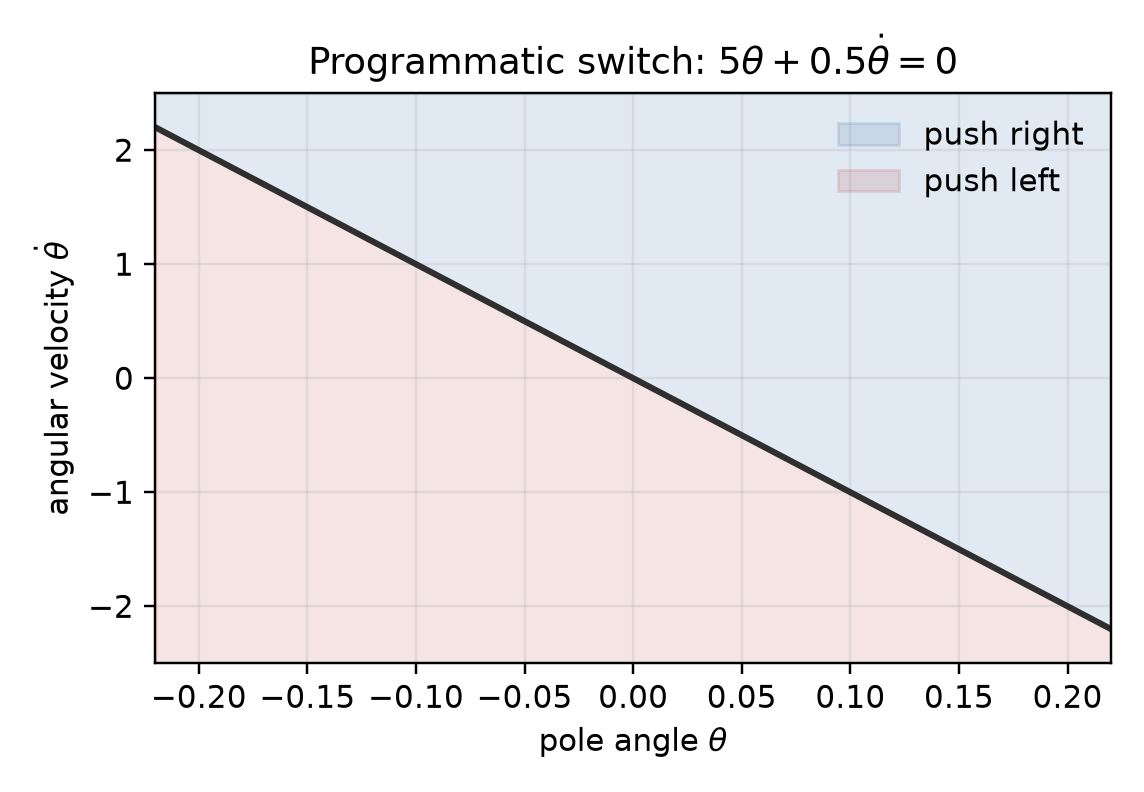
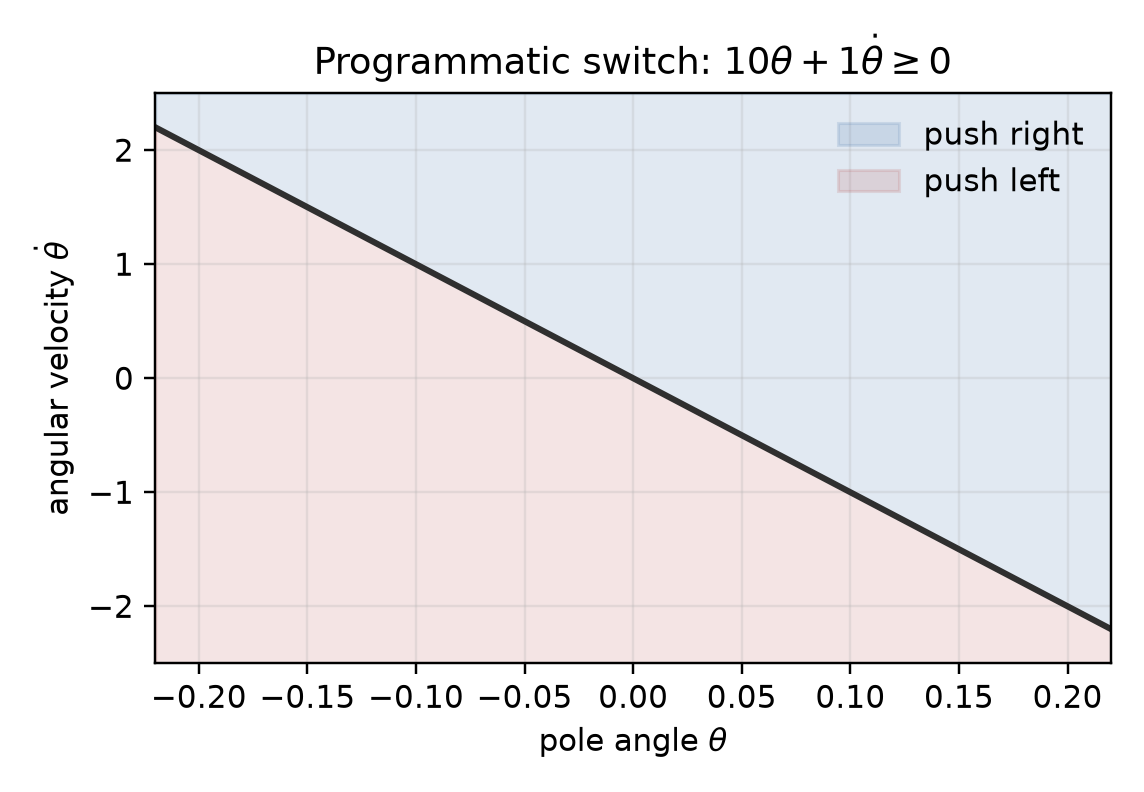
Generate abstract results from artifacts

Changed region(s): [[0.2448, 0.0606, 0.8566, 0.1212]]

diff --git a/scripts/make_paper_figures.py b/scripts/make_paper_figures.py
@@ -16,6 +16,7 @@ SUMMARY_CSV = os.path.join(ROOT, "artifacts", "results", "cartpole_summary.csv")
 OUT_DIR = os.path.join(ROOT, "essay", "figures")
 TABLE_TEX = os.path.join(ROOT, "essay", "cartpole_results_table.tex")
 POLICY_TEX = os.path.join(ROOT, "essay", "cartpole_policy_fragment.tex")
+ABSTRACT_RESULTS_TEX = os.path.join(ROOT, "essay", "cartpole_abstract_results.tex")
 PPO_METRICS_GLOBS = [
     os.path.join(ROOT, "artifacts", "cartpole_ppo_*_metrics.json"),
     os.path.join(ROOT, "artifacts", "results", "metrics", "*.json"),
@@ -46,6 +47,17 @@ def display_policy(name: str) -> str:
     return name.replace("Programmatic state machine", "Programmatic PSM").replace("PPO-LSTM", "PPO-LSTM")
 
 
+def find_policy_row(rows: list[dict[str, str]], policy_name: str) -> dict[str, str] | None:
+    for row in rows:
+        if row["policy"] == policy_name:
+            return row
+    return None
+
+
+def percent(value: float) -> str:
+    return f"{100.0 * value:.0f}\\%"
+
+
 def write_results_table(rows: list[dict[str, str]], outpath: str = TABLE_TEX) -> None:
     lines = [
         "% Generated by scripts/make_paper_figures.py from CartPole result artifacts.",
@@ -65,6 +77,41 @@ def write_results_table(rows: list[dict[str, str]], outpath: str = TABLE_TEX) ->
     lines.extend(["\\bottomrule", "\\end{tabular}", ""])
     with open(outpath, "w", encoding="utf-8") as handle:
         handle.write("\n".join(lines))
+
+
+def write_abstract_results(rows: list[dict[str, str]], outpath: str = ABSTRACT_RESULTS_TEX) -> bool:
+    ppo = find_policy_row(rows, "PPO MLP")
+    psm = find_policy_row(rows, "Programmatic state machine")
+    if ppo is None or psm is None:
+        lines = [
+            "% Generated by scripts/make_paper_figures.py; required result rows were unavailable.",
+            "Local diagnostic result rows were unavailable for this build.",
+            "",
+        ]
+        with open(outpath, "w", encoding="utf-8") as handle:
+            handle.write("\n".join(lines))
+        return False
+
+    ppo_train = metric(ppo, "train_success")
+    ppo_test = metric(ppo, "test_success")
+    ppo_test_reward = metric(ppo, "test_reward")
+    psm_train = metric(psm, "train_success")
+    psm_test = metric(psm, "test_success")
+    psm_test_reward = metric(psm, "test_reward")
+    lines = [
+        "% Generated by scripts/make_paper_figures.py from CartPole result artifacts.",
+        (
+            f"In local diagnostics, feed-forward PPO reaches {percent(ppo_train)} training success "
+            f"and obtains {percent(ppo_test)} success on the full 300-second test horizon with "
+            f"mean test reward {ppo_test_reward:.1f}. The programmatic state machine reaches "
+            f"{percent(psm_train)} training success, obtains {percent(psm_test)} full-horizon "
+            f"test success, and has mean test reward {psm_test_reward:.1f}."
+        ),
+        "",
+    ]
+    with open(outpath, "w", encoding="utf-8") as handle:
+        handle.write("\n".join(lines))
+    return True
 
 
 def plot_success_bars(rows: list[dict[str, str]]) -> None:
@@ -259,6 +306,7 @@ def main() -> None:
     rows = read_results()
     psm_metric_files = read_psm_metric_files()
     write_results_table(rows)
+    write_abstract_results(rows)
     write_policy_fragment(psm_metric_files)
     plot_success_bars(rows)
     plot_survival_rewards(rows)

diff --git a/tests/test_make_paper_figures.py b/tests/test_make_paper_figures.py
@@ -107,6 +107,50 @@ class MakePaperFiguresTest(unittest.TestCase):
         self.assertIn("Programmatic PSM & 1.00 & 0.20 & 250.0 & 6275.4", table)
         self.assertIn("\\bottomrule", table)
 
+    def test_write_abstract_results_uses_result_rows(self):
+        with tempfile.TemporaryDirectory() as tmpdir:
+            outpath = os.path.join(tmpdir, "abstract.tex")
+            wrote = make_paper_figures.write_abstract_results(
+                [
+                    {
+                        "policy": "PPO MLP",
+                        "train_success_mean": "1.0",
+                        "test_success_mean": "0.0",
+                        "test_reward_mean": "910.6",
+                    },
+                    {
+                        "policy": "Programmatic state machine",
+                        "train_success_mean": "1.0",
+                        "test_success_mean": "0.2",
+                        "test_reward_mean": "6275.4",
+                    },
+                ],
+                outpath,
+            )
+            with open(outpath, encoding="utf-8") as handle:
+                fragment = handle.read()
+
+        self.assertTrue(wrote)
+        self.assertIn("feed-forward PPO reaches 100\\% training success", fragment)
+        self.assertNotIn("20 rollouts", fragment)
+        self.assertIn("obtains 0\\% success", fragment)
+        self.assertIn("mean test reward 910.6", fragment)
+        self.assertIn("obtains 20\\% full-horizon test success", fragment)
+        self.assertIn("mean test reward 6275.4", fragment)
+
+    def test_write_abstract_results_records_missing_rows(self):
+        with tempfile.TemporaryDirectory() as tmpdir:
+            outpath = os.path.join(tmpdir, "abstract.tex")
+            wrote = make_paper_figures.write_abstract_results(
+                [{"policy": "PPO MLP", "train_success": "1.0", "test_success": "0.0", "test_reward": "10.0"}],
+                outpath,
+            )
+            with open(outpath, encoding="utf-8") as handle:
+                fragment = handle.read()
+
+        self.assertFalse(wrote)
+        self.assertIn("required result rows were unavailable", fragment)
+
     def test_read_ppo_metric_files_skips_empty_history(self):
         with tempfile.TemporaryDirectory() as tmpdir:
             good_path = os.path.join(tmpdir, "good_metrics.json")

diff --git a/essay/project.tex b/essay/project.tex
@@ -40,12 +40,11 @@ continuous-force CartPole environment, PyTorch PPO with feed-forward and LSTM
 policies, and a compact two-mode programmatic state-machine learner.  The
 implementation follows the paper's CartPole split: training uses a 5-second
 horizon with pole length 0.5, and testing uses a 300-second horizon with pole
-length 1.0.  In local diagnostics over 20 rollouts, feed-forward PPO and the
-programmatic state machine both reach 100\% training success, but PPO obtains
-0\% success on the full 300-second test horizon with mean test reward 910.6.
-The programmatic state machine obtains 20\% full-horizon test success and mean
-test reward 6275.4.  We also document three implementation bugs that materially
-changed reinforcement-learning behavior: missing 5-second episode truncation,
+length 1.0.  Local diagnostic result claims are generated from repository
+artifacts.
+\input{cartpole_abstract_results.tex}
+We also document three implementation bugs that materially changed
+reinforcement-learning behavior: missing 5-second episode truncation,
 inconsistent continuous-action log probabilities after clipping, and recurrent
 state mismatch in PPO-LSTM updates.
 \end{abstract}
@@ -214,7 +213,8 @@ survives much longer and has nonzero full-horizon success.
 
 \begin{table}[t]
 \centering
-\caption{Twenty-rollout local evaluation.  Test success uses the full
+\caption{Local diagnostic evaluation generated from repository result
+artifacts.  Test success uses the full
 300-second horizon.}
 \label{tab:results}
 \input{cartpole_results_table.tex}

diff --git a/essay/cartpole_policy_fragment.tex b/essay/cartpole_policy_fragment.tex
@@ -1,3 +1,8 @@
-% Generated by scripts/make_paper_figures.py; no linear PSM metrics artifact was available.
-No linear programmatic switch metrics artifact was available for this diagnostic run.
-
+% Generated by scripts/make_paper_figures.py from a PSM metrics artifact.
+\[
+  a(x_t) =
+  \begin{cases}
+    +10, & 10\theta_t + 1\dot{\theta}_t \ge 0,\\
+    -10, & \text{otherwise}.
+  \end{cases}
+\]

diff --git a/essay/cartpole_abstract_results.tex b/essay/cartpole_abstract_results.tex
@@ -1,0 +1,2 @@
+% Generated by scripts/make_paper_figures.py from CartPole result artifacts.
+In local diagnostics, feed-forward PPO reaches 100\% training success and obtains 0\% success on the full 300-second test horizon with mean test reward 910.6. The programmatic state machine reaches 100\% training success, obtains 20\% full-horizon test success, and has mean test reward 6275.4.

diff --git a/docs/cartpole_paper_audit.md b/docs/cartpole_paper_audit.md
@@ -62,9 +62,9 @@ Source: `/home/jiawen/Downloads/1321_synthesizing_programmatic_poli.pdf`.
   sweep has not been run.
 - `scripts/make_paper_figures.py`: figure/table generator that prefers grouped summary rows when
   available and falls back to raw per-seed result rows for older artifacts. It also writes the
-  generated LaTeX table and PSM policy fragments consumed by `essay/project.tex`, plots the PSM
-  switch-boundary figure from a linear-switch PSM metrics artifact when available, and plots PPO
-  training curves when metrics JSON artifacts with `eval_history` are present.
+  generated abstract-result, LaTeX table, and PSM policy fragments consumed by `essay/project.tex`,
+  plots the PSM switch-boundary figure from a linear-switch PSM metrics artifact when available, and
+  plots PPO training curves when metrics JSON artifacts with `eval_history` are present.
 
 ## Current Status
 
@@ -157,8 +157,9 @@ split locally. They still do not reproduce the paper-scale PPO/PPO-LSTM protocol
   `essay/figures/cartpole_ppo_training_curves.png`. Current smoke metrics are local diagnostics only,
   not paper-scale learning curves. It discovers standalone PPO metrics, reproduction-runner metrics
   under `artifacts/results/metrics/`, and PPO sweep metrics.
-- `scripts/make_paper_figures.py` now parses linear Cartpole PSM switch boundaries from PSM metrics
-  artifacts before writing `essay/cartpole_policy_fragment.tex` and plotting
+- `scripts/make_paper_figures.py` now writes abstract result claims from result artifacts, and parses
+  linear Cartpole PSM switch boundaries from PSM metrics artifacts before writing
+  `essay/cartpole_policy_fragment.tex` and plotting
   `programmatic_switch_boundary.png`; it writes an explicit fallback fragment and skips that figure
   when only non-linear/Boolean-tree switch descriptions are available instead of drawing a hard-coded
   boundary.
@@ -277,10 +278,10 @@ These checks cover the partial probabilistic Cartpole student, not the complete 
 - `tests/test_cartpole_reproduction_runner.py::test_summary_rows_report_mean_std_and_best_train_seed`
   verifies the runner's per-policy mean/std summary and deterministic best-training-seed selection.
 - `tests/test_make_paper_figures.py` verifies that figure/table generation reads grouped summary rows
-  when present, falls back to raw result rows otherwise, and writes the generated LaTeX result table
-  fragment. It also verifies PSM policy-fragment generation, switch-boundary parsing/plotting from
-  synthetic metrics, fallback/skip behavior for non-linear switches, PPO metrics-file discovery, and
-  training-curve PNG generation.
+  when present, falls back to raw result rows otherwise, and writes generated abstract-result and
+  LaTeX result-table fragments. It also verifies PSM policy-fragment generation,
+  switch-boundary parsing/plotting from synthetic metrics, fallback/skip behavior for non-linear
+  switches, PPO metrics-file discovery, and training-curve PNG generation.
 
 ## Completion Criteria Still Required For Full Paper Claim
 

diff --git a/README.md b/README.md
@@ -17,7 +17,7 @@ protocol.
 
 ## Current Verified Results
 
-Twenty-rollout evaluation:
+Local diagnostic evaluation backed by `artifacts/results/cartpole_results.csv`:
 
 | Policy | Train success | Test success | Train reward | Test reward |
 | --- | ---: | ---: | ---: | ---: |
@@ -167,15 +167,16 @@ the manifest.
 ## Paper and Audit
 
 - Paper draft: `essay/project.tex`
+- Generated abstract result fragment: `essay/cartpole_abstract_results.tex`
 - Generated result table fragment: `essay/cartpole_results_table.tex`
 - Generated PSM policy fragment: `essay/cartpole_policy_fragment.tex`
 - arXiv source manifest: `essay/00README.json`
 - Figures: `essay/figures/`
 - Figure generation script: `scripts/make_paper_figures.py` (uses
   `cartpole_summary.csv` when present, otherwise raw result rows, and rewrites
-  the LaTeX table and PSM policy fragments; if PSM metrics with a linear switch
-  exist, it writes the switch-boundary figure from that artifact, and if PPO
-  metrics JSON files exist, it also writes a training-curve figure)
+  the abstract result, table, and PSM policy fragments; if PSM metrics with a
+  linear switch exist, it writes the switch-boundary figure from that artifact,
+  and if PPO metrics JSON files exist, it also writes a training-curve figure)
 - Paper fidelity audit: `docs/cartpole_paper_audit.md`
 - Result table: `artifacts/results/cartpole_results.csv`
 - Result summary: `artifacts/results/cartpole_summary.csv`